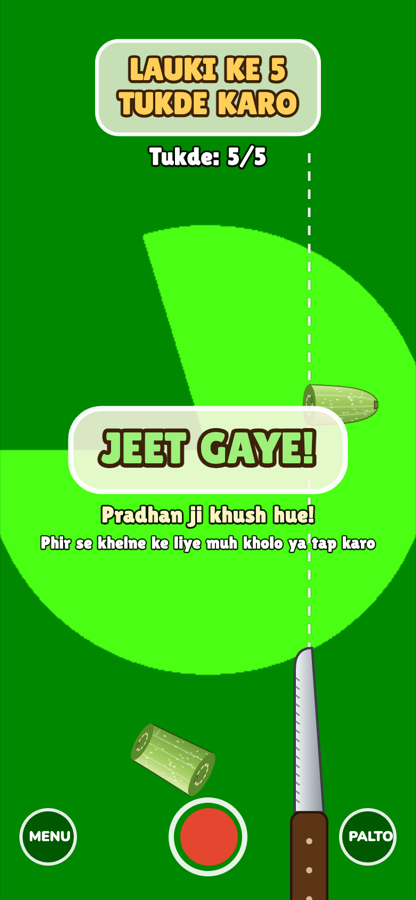
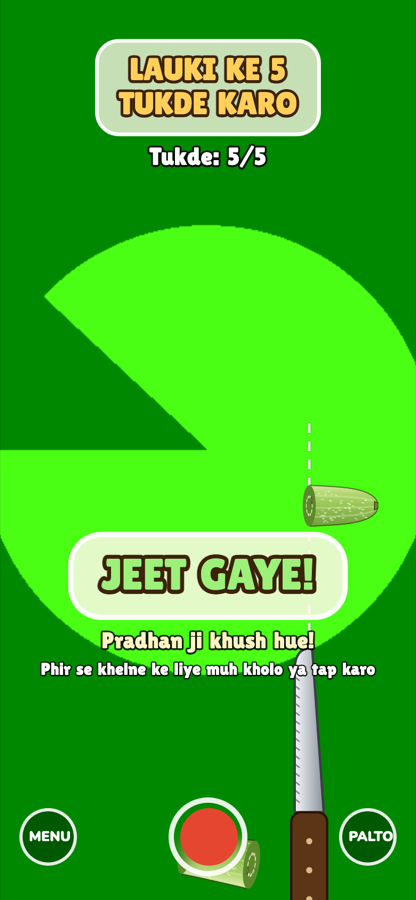
Keep the face clear: lauki under the chin, result in the lower third
Actors don't want their face covered. The lauki now hangs just below the
chin (still face-tracked), the knife and guide line stay under it, and the
win/miss message moves to the lower third. When the face is too close for
room below the chin, a 'Thoda peeche ho jao' hint appears.

Changed region(s): [[0.0938, 0.1556, 0.9062, 0.9022], [0.4062, 0.9333, 0.625, 0.9956]]

diff --git a/public/index.html b/public/index.html
@@ -291,14 +291,16 @@ function videoRect() { // cover-fit the camera into the canvas
 }
 const mirrored = () => facing === "user";
 
+// The lauki hangs just under the chin so the actor's face stays clear; f.y is the chin, f.fh the face height.
 function vegBox() {
-  const f = faceS || { x: W / 2, y: H * 0.45, w: W * 0.45 };
+  const f = faceS || { x: W / 2, y: H * 0.5, w: W * 0.45, fh: W * 0.55 };
   const len = Math.min(W * 0.82, Math.max(W * 0.55, f.w * 1.9));
   const v = VEG[vegKey], h = len * v.aspect;
   const x = Math.min(W * 0.97 - len, Math.max(W * 0.03, f.x - len / 2)); // keep the whole vegetable on screen
-  return { x, y: f.y - h / 2, len, h };
+  const y = Math.min(H * 0.8 - h, f.y + f.fh * 0.08); // never pushed off the bottom
+  return { x, y, len, h };
 }
-const KNIFE_Y = () => H * 0.72;
+const KNIFE_Y = (b) => Math.min(H * 0.86, Math.max(H * 0.72, b.y + b.h + H * 0.07)); // always below the lauki
 const knifeX = () => W * (0.06 + 0.88 * game.knifeT);
 
 /* ---------- the chop ---------- */
@@ -403,9 +405,10 @@ function frame(now) {
     if (lm) {
       const toX = (nx) => { const x = vr.ox + nx * vr.dw; return mirrored() ? W - x : x; };
       const toY = (ny) => vr.oy + ny * vr.dh;
-      const fx = toX(lm[168].x), fy = toY(lm[6].y * 0.45 + lm[1].y * 0.55), fw = Math.abs(toX(lm[454].x) - toX(lm[234].x));
-      const target = { x: fx, y: fy, w: fw };
-      faceS = faceS ? { x: faceS.x + (target.x - faceS.x) * 0.45, y: faceS.y + (target.y - faceS.y) * 0.45, w: faceS.w + (target.w - faceS.w) * 0.3 } : target;
+      const chin = toY(lm[152].y), fh = Math.abs(chin - toY(lm[10].y)); // 152 chin, 10 top of forehead
+      const target = { x: toX((lm[168].x + lm[152].x) / 2), y: chin, w: Math.abs(toX(lm[454].x) - toX(lm[234].x)), fh };
+      const k = (a, b, t) => a + (b - a) * t;
+      faceS = faceS ? { x: k(faceS.x, target.x, 0.45), y: k(faceS.y, target.y, 0.45), w: k(faceS.w, target.w, 0.3), fh: k(faceS.fh, target.fh, 0.3) } : target;
       const bs = res.faceBlendshapes?.[0]?.categories;
       jaw = bs ? (bs.find((c) => c.categoryName === "jawOpen")?.score ?? 0) : 0;
       const open = jaw > 0.42, closed = jaw < 0.22;
@@ -429,7 +432,7 @@ function frame(now) {
 
     // dashed guide
     ctx.save(); ctx.setLineDash([9, 8]); ctx.lineWidth = 2.5; ctx.strokeStyle = "rgba(255,255,255,.9)"; ctx.shadowColor = "rgba(0,0,0,.4)"; ctx.shadowBlur = 3;
-    ctx.beginPath(); ctx.moveTo(kx, H * 0.17); ctx.lineTo(kx, KNIFE_Y()); ctx.stroke(); ctx.restore();
+    ctx.beginPath(); ctx.moveTo(kx, Math.max(H * 0.17, b.y - b.h * 0.6)); ctx.lineTo(kx, KNIFE_Y(b)); ctx.stroke(); ctx.restore(); // starts just above the lauki, not across the face
 
     // remaining vegetable
     if (game.L < 1) drawSegment(game.L, 1, b.x, b.y, b.len, b.h, game.L > 0, false);
@@ -447,7 +450,7 @@ function frame(now) {
     // knife: jabs up to the vegetable on a chop
     game.chopAnim = Math.max(0, game.chopAnim - dt * 4.5);
     const jab = Math.sin(game.chopAnim * Math.PI);
-    const restY = KNIFE_Y(), hitY = b.y - b.h * 0.25;
+    const restY = KNIFE_Y(b), hitY = b.y - b.h * 0.25;
     const scale = Math.max(0.6, Math.min(1.1, W / 430));
     drawKnife(kx, restY + (hitY - restY) * jab, scale);
 
@@ -455,17 +458,20 @@ function frame(now) {
     const s = Math.max(22, Math.min(34, W * 0.075));
     pill(`${v.name} KE ${PIECES_TO_WIN}\nTUKDE KARO`, W / 2, H * 0.09 + 6, s);
     outlined(`Tukde: ${game.pieces}/${PIECES_TO_WIN}`, W / 2, H * 0.09 + s * 2.45, s * 0.78);
-    if (game.flash > 0) { game.flash = Math.max(0, game.flash - dt * 3); outlined("KHACH!", kx, b.y - b.h * 0.9, s * (1 + game.flash * 0.4), `rgba(255,214,90,${game.flash})`); }
+    if (game.flash > 0) { game.flash = Math.max(0, game.flash - dt * 3); outlined("KHACH!", kx, b.y + b.h * 1.6, s * (1 + game.flash * 0.4), `rgba(255,214,90,${game.flash})`); }
     if (game.msg && game.state === "play") outlined(game.msg, W / 2, H * 0.93, 15);
     if (game.state === "play" && mode === "mouth" && !faceS) outlined("Camera mein chehra dikhao", W / 2, H * 0.62, 18);
+    // face too close: no room under the chin, so the lauki is pushed up over the face
+    if (game.state === "play" && faceS && faceS.y + faceS.fh * 0.08 > b.y + 2) outlined("Thoda peeche ho jao", W / 2, H * 0.09 + s * 3.4, s * 0.62, "#fff3c4");
 
     if (game.state === "over") {
+      const RY = H * 0.64; // lower third, clear of the face
       const t = Math.min(1, (now - game.endAt) / 250), sc = 0.6 + 0.4 * (1 - Math.pow(1 - t, 3));
-      ctx.save(); ctx.translate(W / 2, H * 0.5); ctx.scale(sc, sc); ctx.translate(-W / 2, -H * 0.5);
-      pill(game.won ? "JEET GAYE!" : "CHOOK GAYE!", W / 2, H * 0.5, s * 1.4, game.won ? "#9df07a" : "#ff6a4d", "rgba(255,248,232,.85)");
+      ctx.save(); ctx.translate(W / 2, RY); ctx.scale(sc, sc); ctx.translate(-W / 2, -RY);
+      pill(game.won ? "JEET GAYE!" : "CHOOK GAYE!", W / 2, RY, s * 1.4, game.won ? "#9df07a" : "#ff6a4d", "rgba(255,248,232,.85)");
       ctx.restore();
-      outlined(game.won ? "Pradhan ji khush hue!" : "Arre Sachiv ji, yeh kya kiya!", W / 2, H * 0.5 + s * 2.1, s * 0.72, game.won ? "#fff3c4" : "#ffd9cf");
-      if (now - game.endAt > 700) outlined(mode === "mouth" ? "Phir se khelne ke liye muh kholo ya tap karo" : "Phir se khelne ke liye tap karo", W / 2, H * 0.5 + s * 3.0, 16);
+      outlined(game.won ? "Pradhan ji khush hue!" : "Arre Sachiv ji, yeh kya kiya!", W / 2, RY + s * 2.1, s * 0.72, game.won ? "#fff3c4" : "#ffd9cf");
+      if (now - game.endAt > 700) outlined(mode === "mouth" ? "Phir se khelne ke liye muh kholo ya tap karo" : "Phir se khelne ke liye tap karo", W / 2, RY + s * 3.0, 16);
     }
   }
   requestAnimationFrame(frame);
